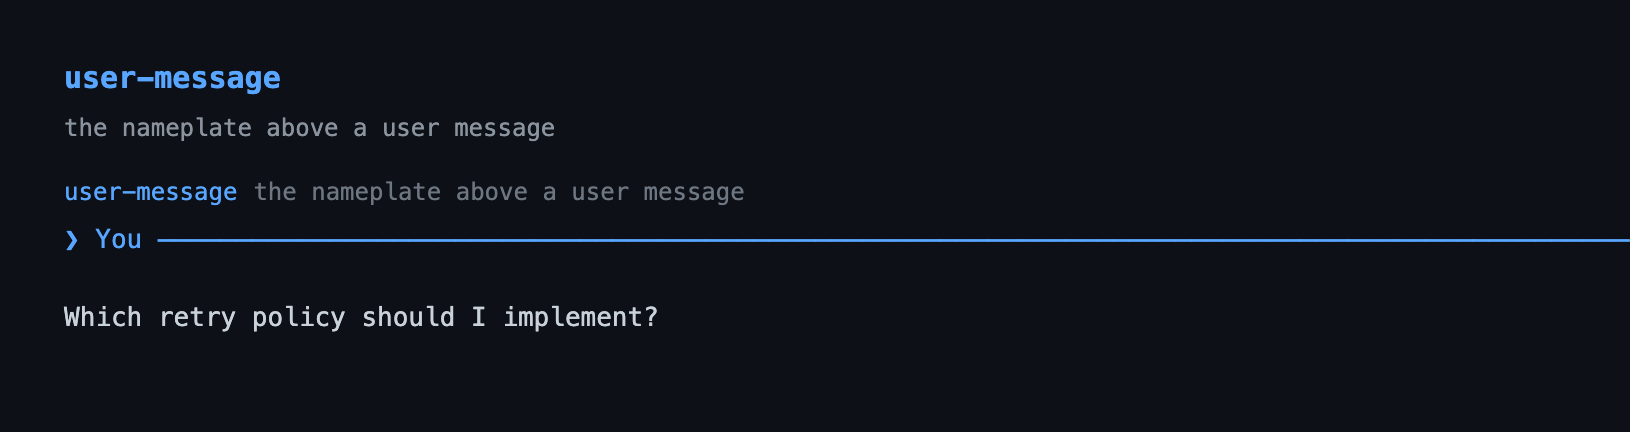
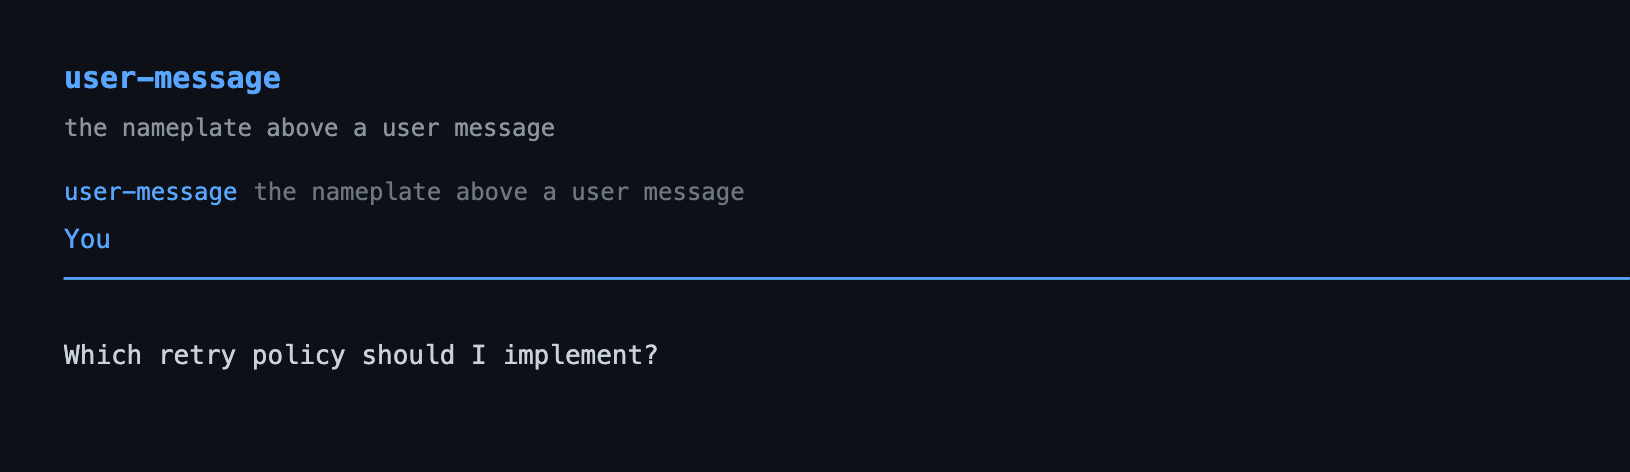
feat(bytefly): open each user message with a two-row nameplate
The nameplate's leading `❯` was the list selection marker, so every user
message repeated a symbol that means "focused row" elsewhere. The
nameplate is now the label over a full-width rule, both in the accent.

One padded level-2 heading is the only Markdown shape that keeps the two
rows adjacent and accent-colored: Pi puts a blank line after a heading
block, so two heading lines would render as three rows. The list
selection marker still sources `❯` from `GLYPHS.prompt`.

diff --git a/extensions/bytefly/message/format.ts b/extensions/bytefly/message/format.ts
@@ -1,36 +1,37 @@
 /**
- * The user-message nameplate: a `❯ You` heading with a rule running to the
- * right margin, above the message.
+ * The user-message nameplate: a two-row heading, the `You` label over a rule
+ * that spans the width, above the message.
  *
  * Pi's user message component parses the transformed string as Markdown and
  * owns its colors, so shaping text is the only lever: the surface can add no
  * component and no color of its own. The nameplate is a level-2 heading, which
  * Pi renders bold in `mdHeading` and prints without its `#` prefix; the bytefly
  * themes point `mdHeading` at the accent, so the label and rule carry the accent
- * while the message itself stays in the default text color. A blank line
- * separates the nameplate from the message, so the message's own Markdown (a
- * fence, a list, a second paragraph) parses exactly as it would without it.
+ * while the message itself stays in the default text color. Markdown cannot
+ * express a two-line heading, and Pi puts a blank line after a heading block,
+ * so the label is padded to the width and the rule is appended: the heading's
+ * text wraps, putting the rule on its own row with no blank between. A blank
+ * line separates the nameplate from the message, so the message's own Markdown
+ * (a fence, a list, a second paragraph) parses exactly as it would without it.
  */
 
 import type { MarkdownTransformContext } from "@earendil-works/pi-coding-agent";
 import { visibleWidth } from "@earendil-works/pi-tui";
 import { MESSAGE_CONFIG } from "./config.ts";
 
-const { glyph, label, ruleGlyph } = MESSAGE_CONFIG;
+const { label, ruleGlyph } = MESSAGE_CONFIG;
 
 /**
- * The nameplate line: a heading whose text is the label and, to the right
- * margin, the rule. The rule is dropped when fewer than `minRule` columns
- * remain, and the whole nameplate is dropped when not even the label fits.
+ * The two-row nameplate: a heading whose text is the label, padded to the
+ * width, followed by a full-width rule. The wrap puts the rule on the second
+ * row; the whole nameplate is dropped when not even the label fits.
  */
 export function nameplate(width: number): string | undefined {
-	const text = `${glyph} ${label}`;
-	const labelWidth = visibleWidth(text);
+	const labelWidth = visibleWidth(label);
 	const w = Math.max(1, Math.floor(width));
 	if (labelWidth > w) return undefined;
-	const fill = w - labelWidth - 1;
-	if (fill < MESSAGE_CONFIG.minRule) return `## ${text}`;
-	return `## ${text} ${ruleGlyph.repeat(fill)}`;
+	const pad = " ".repeat(w - labelWidth);
+	return `## ${label}${pad}${ruleGlyph.repeat(w)}`;
 }
 
 /** Put the nameplate above a user message; every other message passes through. */

diff --git a/extensions/bytefly/message/format.test.ts b/extensions/bytefly/message/format.test.ts
@@ -12,23 +12,26 @@ const at = (messageType: MarkdownTransformContext["messageType"], availableWidth
 
 const user = (availableWidth = 80) => at("user", availableWidth);
 
+/** The two-row nameplate Markdown: `You` padded to the width, then the rule. */
+const plate = (width: number): string => `## You${" ".repeat(width - 3)}${"─".repeat(width)}`;
+
 describe("nameplate", () => {
-	test("draws the label as a heading with a rule to the width", () => {
-		expect(nameplate(20)).toBe(`## ❯ You ${"─".repeat(14)}`);
+	test("draws the label over a full-width rule", () => {
+		expect(nameplate(20)).toBe(plate(20));
 	});
 
-	test("drops the rule when too little width remains", () => {
-		expect(nameplate(7)).toBe("## ❯ You");
+	test("still draws the full-width rule when the label just fits", () => {
+		expect(nameplate(3)).toBe(plate(3));
 	});
 
 	test("drops the nameplate when the label does not fit", () => {
-		expect(nameplate(4)).toBeUndefined();
+		expect(nameplate(2)).toBeUndefined();
 	});
 });
 
 describe("styleUserMessage", () => {
 	test("puts the nameplate above the message", () => {
-		expect(styleUserMessage("hello", user(20))).toBe(`## ❯ You ${"─".repeat(14)}\n\nhello`);
+		expect(styleUserMessage("hello", user(20))).toBe(`${plate(20)}\n\nhello`);
 	});
 
 	test("leaves non-user messages and empty text unchanged", () => {
@@ -48,11 +51,14 @@ describe("rendered through the real Markdown component", () => {
 		return component.render(width);
 	};
 
-	test("draws the heading label above the body without a hash prefix", () => {
-		const lines = render("hello");
-		expect(lines[0]).toContain("❯ You");
-		expect(lines[0]).not.toContain("#");
-		expect(lines.join("\n")).toContain("hello");
+	test("draws the label over the rule above the body without a hash prefix", () => {
+		const lines = render("hello").map((line) => line.replace(/\s+$/, ""));
+		expect(lines[0]).toBe("You");
+		expect(lines[1]).toBe("─".repeat(40));
+		const joined = lines.join("\n");
+		expect(joined).not.toContain("#");
+		expect(joined).not.toContain("❯");
+		expect(joined).toContain("hello");
 	});
 
 	test("keeps a code-first message as code", () => {

diff --git a/lib/tui/cursor.ts b/lib/tui/cursor.ts
@@ -19,6 +19,7 @@
 import type { Theme } from "@earendil-works/pi-coding-agent";
 import { Key, matchesKey, truncateToWidth, type TuiMouseEvent, type TuiMouseEventResult } from "@earendil-works/pi-tui";
 import { viewportRows, type ViewportRowsSource } from "./chrome.ts";
+import { GLYPHS } from "./glyphs.ts";
 
 /**
  * Rows that fit for a list of `itemCount`, reserving one extra line when the
@@ -75,7 +76,7 @@ export function wheelDelta(event: TuiMouseEvent): number | undefined {
 
 /** The `❯ ` selection marker (accent) or a same-width blank. */
 export function selectionMarker(theme: Theme, selected: boolean): string {
-	return selected ? theme.fg("accent", "❯ ") : "  ";
+	return selected ? theme.fg("accent", `${GLYPHS.prompt} `) : "  ";
 }
 
 /**

diff --git a/extensions/bytefly/index.ts b/extensions/bytefly/index.ts
@@ -2,7 +2,7 @@
  * bytefly — the package's terminal chrome and diagnostics, composed from nine
  * feature folders: `header/` (the themed startup mark and version), `footer/`
  * (the two-line, width-adaptive status bar with its price calculation),
- * `message/` (the user-message prompt marker), `notice/` (the shared transcript
+ * `message/` (the user-message nameplate), `notice/` (the shared transcript
  * notice renderer), `block/` (the unified tool-block frame), `separator/` (the
  * transcript turn rule), `panel/` (the unified `/bytefly` screen and its
  * `doctor` report), `doctor/` (the `run_doctor` tool and its session-scoped

diff --git a/extensions/bytefly/message/config.ts b/extensions/bytefly/message/config.ts
@@ -5,16 +5,11 @@
  * this surface has no roles: it only names the label and the rule.
  */
 
-import { GLYPHS } from "../../../lib/tui/glyphs.ts";
 import { RULE_GLYPH } from "../../../lib/tui/rules.ts";
 
 export const MESSAGE_CONFIG = {
-	/** Leading glyph on the label. */
-	glyph: GLYPHS.prompt,
-	/** The label word after the glyph. */
+	/** The label word in the heading. */
 	label: "You",
-	/** Repeatable glyph that fills the rule to the right margin. */
+	/** Repeatable glyph that fills the rule row. */
 	ruleGlyph: RULE_GLYPH,
-	/** Fewest rule columns worth drawing; below this the rule is dropped. */
-	minRule: 3,
 } as const;

diff --git a/extensions/bytefly/message/register.test.ts b/extensions/bytefly/message/register.test.ts
@@ -14,7 +14,8 @@ describe("registerUserMessage", () => {
 		registerUserMessage(pi);
 		const transform = markdownTransformers[0];
 
-		expect(transform("hello", { messageType: "user", isStreaming: false, availableWidth: 40 })).toContain("❯ You");
+		expect(transform("hello", { messageType: "user", isStreaming: false, availableWidth: 40 })).toContain("You");
+		expect(transform("hello", { messageType: "user", isStreaming: false, availableWidth: 40 })).not.toContain("❯");
 		expect(transform("hello", { messageType: "assistant", isStreaming: false, availableWidth: 40 })).toBe("hello");
 	});
 });

diff --git a/extensions/bytefly/README.md b/extensions/bytefly/README.md
@@ -3,7 +3,7 @@
 `bytefly` owns the terminal chrome, configuration, and diagnostics surfaces
 this package adds: one themed startup header whose two-tone nameplate carries
 the agent and chrome identities, one compact, colorful, width-adaptive two-line
-footer, a `❯` prompt marker that opens each user message, a labeled rule that
+footer, a two-row `You` nameplate that opens each user message, a labeled rule that
 marks each completed turn in the transcript, one keyboard-driven screen that
 lists every resolved Pi extension with its enable checkbox and its health, and
 an opt-in notify capability that raises an OS notification when a run finishes,
@@ -116,25 +116,27 @@ rates and peak tariff built into [`footer/price/config.ts`](./footer/price/confi
 ▰▰▰▰▰▰▱▱▱▱ 62%/200k · ¥2.50 · ↑42k ↓8.0k · R96k CH 87%             opus-4.5 · high
 ```
 
-**User message.** Every user message opens with a `❯ You` nameplate — a
-heading and a rule to the right margin — above the message:
+**User message.** Every user message opens with a two-row `You` nameplate —
+the label over a rule that spans the width — above the message:
 
 ```
-❯ You ──────────────────────────────
+You
+────────────────────────────────────
 
 the message the user typed
 ```
 
 It is always on in interactive sessions and has no config file. Pi renders a
 user message as Markdown and owns its colors, so bytefly's only lever is a
-`registerMarkdownTransformer`: the nameplate is a level-2 heading, whose label
-and rule carry the accent because the themes point `mdHeading` at it, and the
-block carries no fill — the shipped themes set `userMessageBg` to the terminal
-default, so it reads like the tool blocks. The nameplate is separated from the message by a blank line, so
+`registerMarkdownTransformer`: the nameplate is a single level-2 heading whose
+text is padded so the rule wraps onto the second row, and both rows carry the
+accent because the themes point `mdHeading` at it. The block carries no fill —
+the shipped themes set `userMessageBg` to the terminal default, so it reads like
+the tool blocks. The nameplate is separated from the message by a blank line, so
 the message's own Markdown (a fence, a list, a second paragraph) parses exactly
 as it would without it, and a soft wrap of one long line stays at the margin
-because the renderer wraps it, not bytefly. The glyph, the label, and the rule
-are tuned in [`message/config.ts`](./message/config.ts).
+because the renderer wraps it, not bytefly. The label and the rule are tuned
+in [`message/config.ts`](./message/config.ts).
 
 **Turn separator.** After each completed turn the extension appends an inert
 entry and draws a centered `╌╌╌ turn N ╌╌╌` rule across the transcript; see
@@ -679,7 +681,7 @@ rather than showing a wrong value.
 |---|---|
 | Header | `ctx.ui.setHeader` with a custom component, replacing Pi's built-in header; installed only when `ctx.mode === "tui"`. The mark and text are drawn from the active theme's tokens, the help keys resolve live through `keyText`, and the mark falls back to a wordmark on Apple Terminal (`isAppleTerminalSession`), mirroring Pi's built-in. |
 | Footer | `ctx.ui.setFooter` with a custom component, replacing Pi's built-in footer; installed only when `ctx.mode === "tui"`. |
-| User message | `pi.registerMarkdownTransformer` puts a `❯ You` nameplate (a heading and a rule to the edge) above each user message; the heading carries the accent through `mdHeading`, and the shipped themes set `userMessageBg` to the terminal default, so the block has no fill. Pi renders the result as Markdown, so the surface adds no component or color of its own. |
+| User message | `pi.registerMarkdownTransformer` puts a two-row `You` nameplate (the label over a full-width rule) above each user message; one padded level-2 heading carries the accent through `mdHeading` for both rows, and the shipped themes set `userMessageBg` to the terminal default, so the block has no fill. Pi renders the result as Markdown, so the surface adds no component or color of its own. |
 | Notice | `registerMessageRenderer(NOTICE_TYPE)` draws every shared transcript notice as a rail from its `details`; the type and shape come from `lib/notice.ts`. A message without `details` falls back to Pi's default custom-message box. |
 | Tool blocks | `registerToolRenderer` returns, for every tool, `renderShell: "self"` and `renderCall`/`renderResult` that wrap the tool's own renderer (or a generic fallback) in the rail frame; a tool that already sets `renderShell: "self"` is returned unchanged. |
 | Screen command | `pi.registerCommand("bytefly")` takes `[doctor] [extension] [refresh]`: `tui` mounts a dock screen via `ctx.ui.custom()` with the rails suppressed; other modes print through `ctx.ui.notify()` — the grouped listing, or `run_doctor`'s report for `doctor`. Tab completes `doctor`, extension names, and `refresh`. |
@@ -704,13 +706,16 @@ rather than showing a wrong value.
   theme swap re-skins the whole chrome.
 - **The user message is shaped, not painted.** Pi renders a user message as
   Markdown and owns its colors, so bytefly's only lever is a Markdown
-  transformer: the nameplate is a heading whose label and rule take the accent
+  transformer: the two-row nameplate is one level-2 heading whose text is padded
+  to the width so the rule wraps below the label, and both rows take the accent
   from the theme's `mdHeading`, because no extension API can color it directly.
-  The block has no fill: the shipped themes set `userMessageBg` to the terminal
-  default, so it matches the tool blocks. The nameplate is one paragraph
-  separated from the message by a blank line, so the message's own Markdown
-  parses unchanged and a soft wrap stays at the margin; hard-wrapping Markdown
-  here would corrupt a break inside an inline construct.
+  Markdown has no multi-line heading and Pi inserts a blank line after a
+  heading block, so a single wrapped heading is the only way to keep the two
+  rows adjacent and in the accent. The block has no fill: the shipped themes set
+  `userMessageBg` to the terminal default, so it matches the tool blocks. The
+  nameplate is separated from the message by a blank line, so the message's own
+  Markdown parses unchanged and a soft wrap stays at the margin; hard-wrapping
+  Markdown here would corrupt a break inside an inline construct.
 - **A notice is one shared contract, not a foreign type.** Pi resolves a
   custom-message renderer by exact type with no wildcard, so `lib/notice.ts`
   owns the type and the `NoticeDetails` shape: a producer states model text and
@@ -892,8 +897,8 @@ columns, gauge), so the look follows the active theme.
 | `footer/render/lines.ts` | Snapshot → two `LineSpec`s; status routing. |
 | `footer/render/layout.ts` | Width reduction and right-zone folding. |
 | `footer/render/footer.ts` | `StatusBar` component and footer factory. |
-| `message/config.ts` | Nameplate tuning (`MESSAGE_CONFIG`): the glyph, the label, and the rule. |
-| `message/format.ts` | Pure `nameplate` and `styleUserMessage`: the label, the rule to the width, and the nameplate above the message. |
+| `message/config.ts` | Nameplate tuning (`MESSAGE_CONFIG`): the label and the rule. |
+| `message/format.ts` | Pure `nameplate` and `styleUserMessage`: the two-row nameplate (label over a full-width rule) and its placement above the message. |
 | `message/register.ts` | Registers the Markdown transformer. |
 | `notice/config.ts` | Notice-rail tuning (`NOTICE_CONFIG`): source/title/detail roles, the severity glyphs and roles, and the item cap. |
 | `notice/component.ts` | Pure `noticeLines` and `NoticeComponent`: the headline and the severity-led rows, sanitized and width-clipped. |

diff --git a/README.md b/README.md
@@ -106,7 +106,7 @@ extension's own `README.md` has the full tool and command surface.
 
 | Extension | Tools and commands | What it does |
 |---|---|---|
-| [`bytefly`](./extensions/bytefly/) | `/bytefly` (with the `doctor` subcommand), `run_doctor` | A themed header and width-adaptive footer, a `❯` marker on each user message, a rule between completed turns, a rail for shared transcript notices, a status rail that frames every tool block, the `/bytefly` extension screen that lists every extension with its health and enables or disables one (`/bytefly doctor` prints the doctor report), and an opt-in `notify` capability that raises OS notifications when a run or a background job finishes or the agent asks for input. DeepSeek is priced out of the box, and `bytefly.json` is the shared config document every extension reads. |
+| [`bytefly`](./extensions/bytefly/) | `/bytefly` (with the `doctor` subcommand), `run_doctor` | A themed header and width-adaptive footer, a two-row `You` nameplate on each user message, a rule between completed turns, a rail for shared transcript notices, a status rail that frames every tool block, the `/bytefly` extension screen that lists every extension with its health and enables or disables one (`/bytefly doctor` prints the doctor report), and an opt-in `notify` capability that raises OS notifications when a run or a background job finishes or the agent asks for input. DeepSeek is priced out of the box, and `bytefly.json` is the shared config document every extension reads. |
 | [`bytefly-dark`](./themes/bytefly-dark.json) / [`bytefly-light`](./themes/bytefly-light.json) | `/settings` → **Theme** | A GitHub-inspired dark palette and its light companion, with optional automatic light/dark switching. |
 
 ### Screens

diff --git a/CHANGELOG.md b/CHANGELOG.md
@@ -26,8 +26,8 @@ to [Semantic Versioning](https://semver.org/spec/v2.0.0.html).
 - `job`, `watch`: a finished job or a matched watched line is now posted as that
   visible notice instead of a hidden context message. The model-facing text is
   unchanged, and each extension still prunes only its own stale notices.
-- `bytefly`: each user message opens with a `❯ You` nameplate — a heading and a
-  rule to the right margin — above the message.
+- `bytefly`: each user message opens with a two-row `You` nameplate — the label
+  over a full-width rule — above the message.
 - Docs: terminal screenshots for the `todo`, `question`, `job`, and `rewind`
   screens plus a refreshed `chrome.png` hero, embedded in each extension
   README, the catalog, and the root and Chinese READMEs; `bun run screenshots`
@@ -71,7 +71,7 @@ to [Semantic Versioning](https://semver.org/spec/v2.0.0.html).
   instead of yellow.
 - `bytefly`: the user message no longer sits on a filled background. The shipped
   themes set `userMessageBg` to the terminal default, so it renders on the same
-  background as the tool blocks, with only the `❯ You` nameplate above it.
+  background as the tool blocks, with only the two-row `You` nameplate above it.
 - `plan`: the browser review's `Close` is now **Back to Pi**, and every outcome
   settles the page on a terminal chip — `Approved`, `Saved`, or `Closed` —
   instead of falling to a red `Offline` when the server closes the stream.

diff --git a/docs/extensions.md b/docs/extensions.md
@@ -227,7 +227,7 @@ startup header (a two-tone nameplate with the agent and chrome identities and a
 signature rule, drawn from the active theme through the `lib/tui/` design
 system's semantic roles), a compact, width-adaptive two-line footer (pwd + session name + git branch/worktree + browse chip, then context gauge + usage +
 mode/alert + model + thinking level), the labeled `╌╌╌ turn N ╌╌╌` rule
-between completed turns, a `❯ You` nameplate above each user message on the
+between completed turns, a two-row `You` nameplate above each user message on the
 terminal background, and the shared transcript rail (`╎`) that every non-prose
 block hangs from — the shared notice and every tool block, built-ins included,
 share one left edge and one rail that stays neutral unless a call is running or
